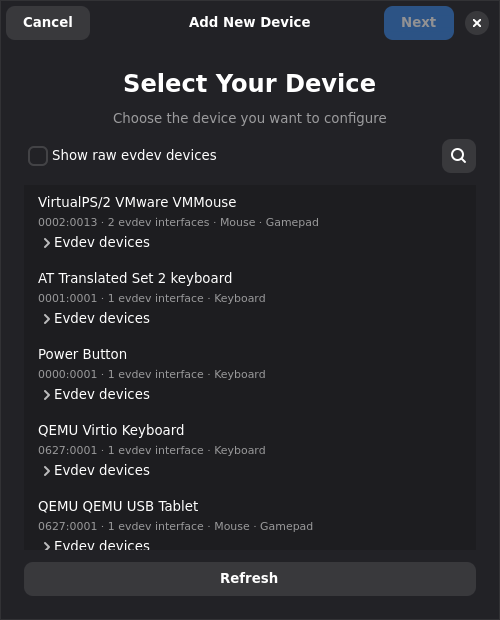
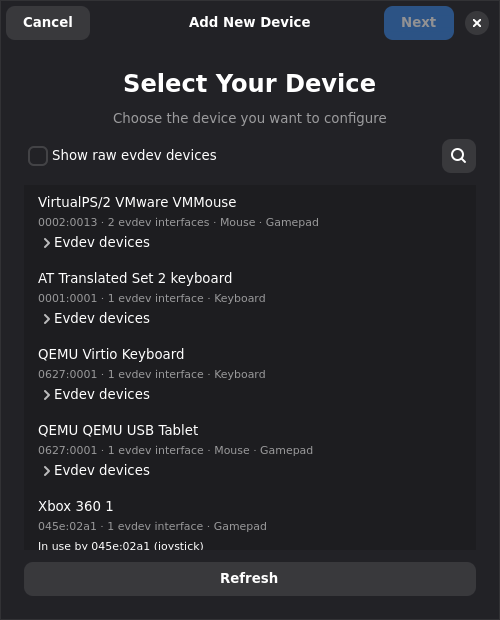
Prepare Keymasq 0.21.1 release (#388)
* Prepare Keymasq 0.21.1 release

Bump the version to 0.21.1 and add the 0.21.1 release notes to
CHANGELOG.md, debian/changelog, and the AppStream metainfo.

* Refresh the add device screenshot

diff --git a/keymasq/_version.py b/keymasq/_version.py
@@ -1,1 +1,1 @@
-__version__ = "0.21.0"
+__version__ = "0.21.1"

diff --git a/CHANGELOG.md b/CHANGELOG.md
@@ -1,5 +1,17 @@
 # Changelog
 
+## 0.21.1 - 2026-10-30
+
+### Added
+
+- Right-clicking a super key mapping on the device tab now opens the Super
+  Keys dialog with that super key selected, as macro mappings already open the
+  macro editor.
+
+### Packaging
+
+- Added Fedora 45 packages through COPR and the project RPM repository.
+
 ## 0.21.0 - 2026-10-14
 
 ### Added
